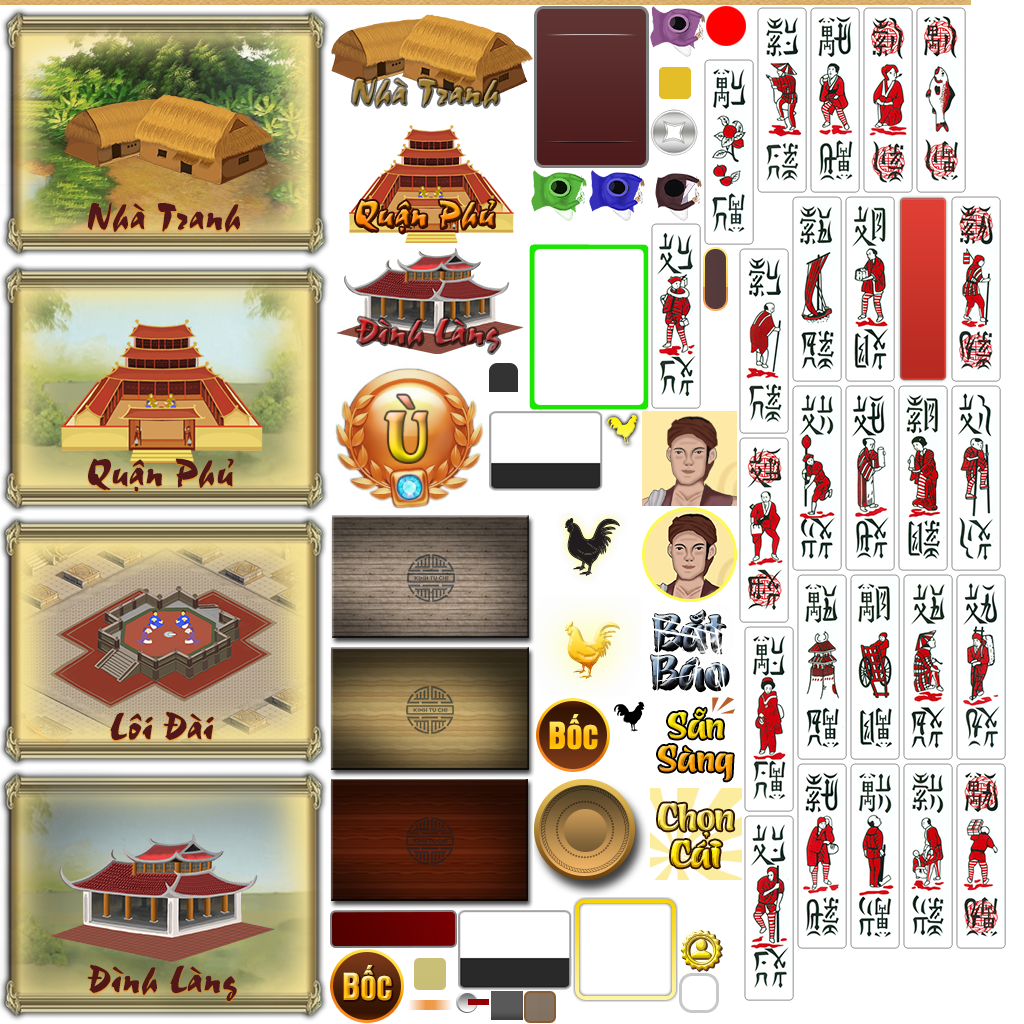
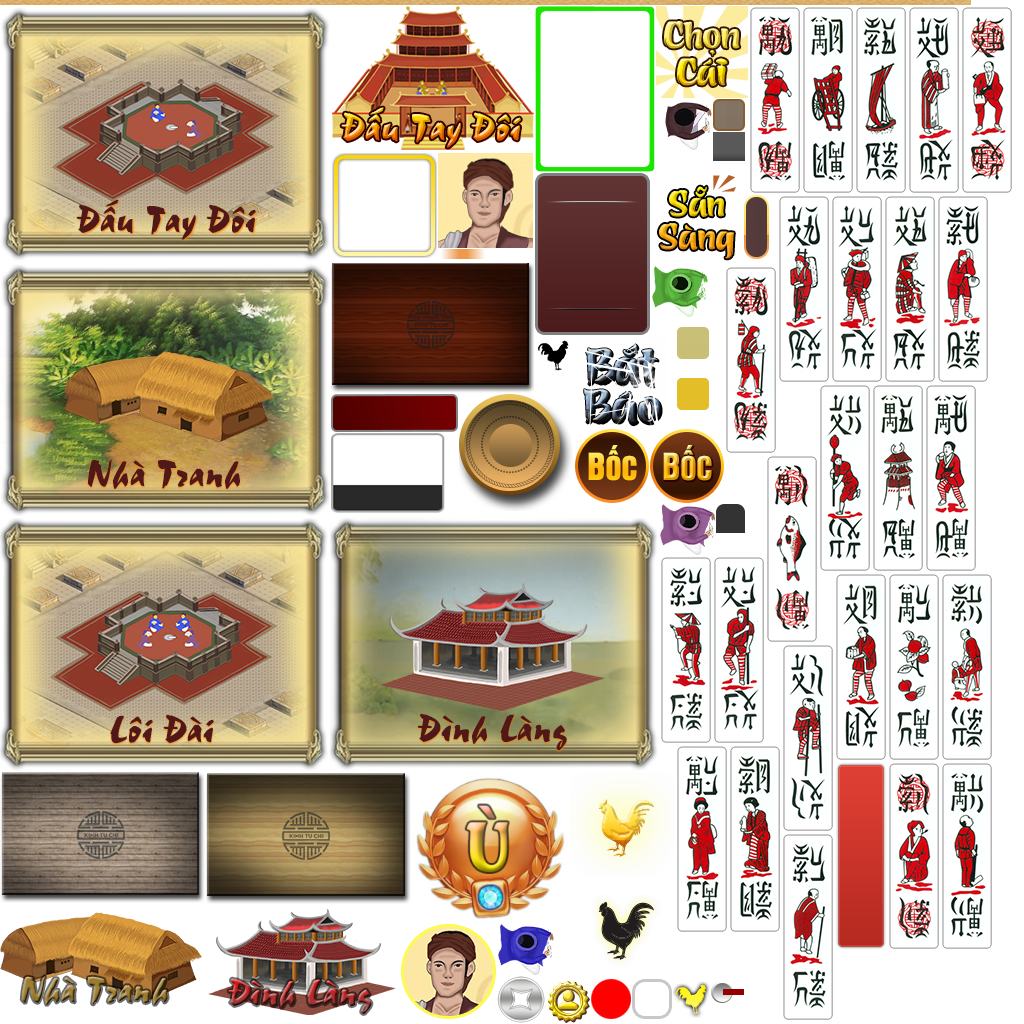
Replace VuongPhu by SoLo

diff --git a/Classes/MainScene.cpp b/Classes/MainScene.cpp
@@ -196,14 +196,23 @@ void MainScene::onInit()
 	mLayer->addChild(btnDinhLang);
 	autoScaleNode(btnDinhLang);
 
-	ui::Button* btnPhuChua = ui::Button::create("phuchua.png", "phuchua.png", "", ui::Widget::TextureResType::PLIST);
+	/*ui::Button* btnPhuChua = ui::Button::create("phuchua.png", "phuchua.png", "", ui::Widget::TextureResType::PLIST);
 	btnPhuChua->setPosition(vecPos[10]);
 	btnPhuChua->setScale(.95f);
 	addTouchEventListener(btnPhuChua, [=]() {
 		joinIntoLobby(2);
 	});
 	mLayer->addChild(btnPhuChua);
-	autoScaleNode(btnPhuChua);
+	autoScaleNode(btnPhuChua);*/
+
+	ui::Button* btnSolo = ui::Button::create("dtd.png", "dtd.png", "", ui::Widget::TextureResType::PLIST);
+	btnSolo->setPosition(vecPos[10]);
+	btnSolo->setScale(.95f);
+	addTouchEventListener(btnSolo, [=]() {
+		joinIntoLobby(3);
+	});
+	mLayer->addChild(btnSolo);
+	autoScaleNode(btnSolo);
 
 	/*Sprite* spLoiDai = Sprite::createWithSpriteFrameName("loidai.png");
 	spLoiDai->setScale(.95f);
